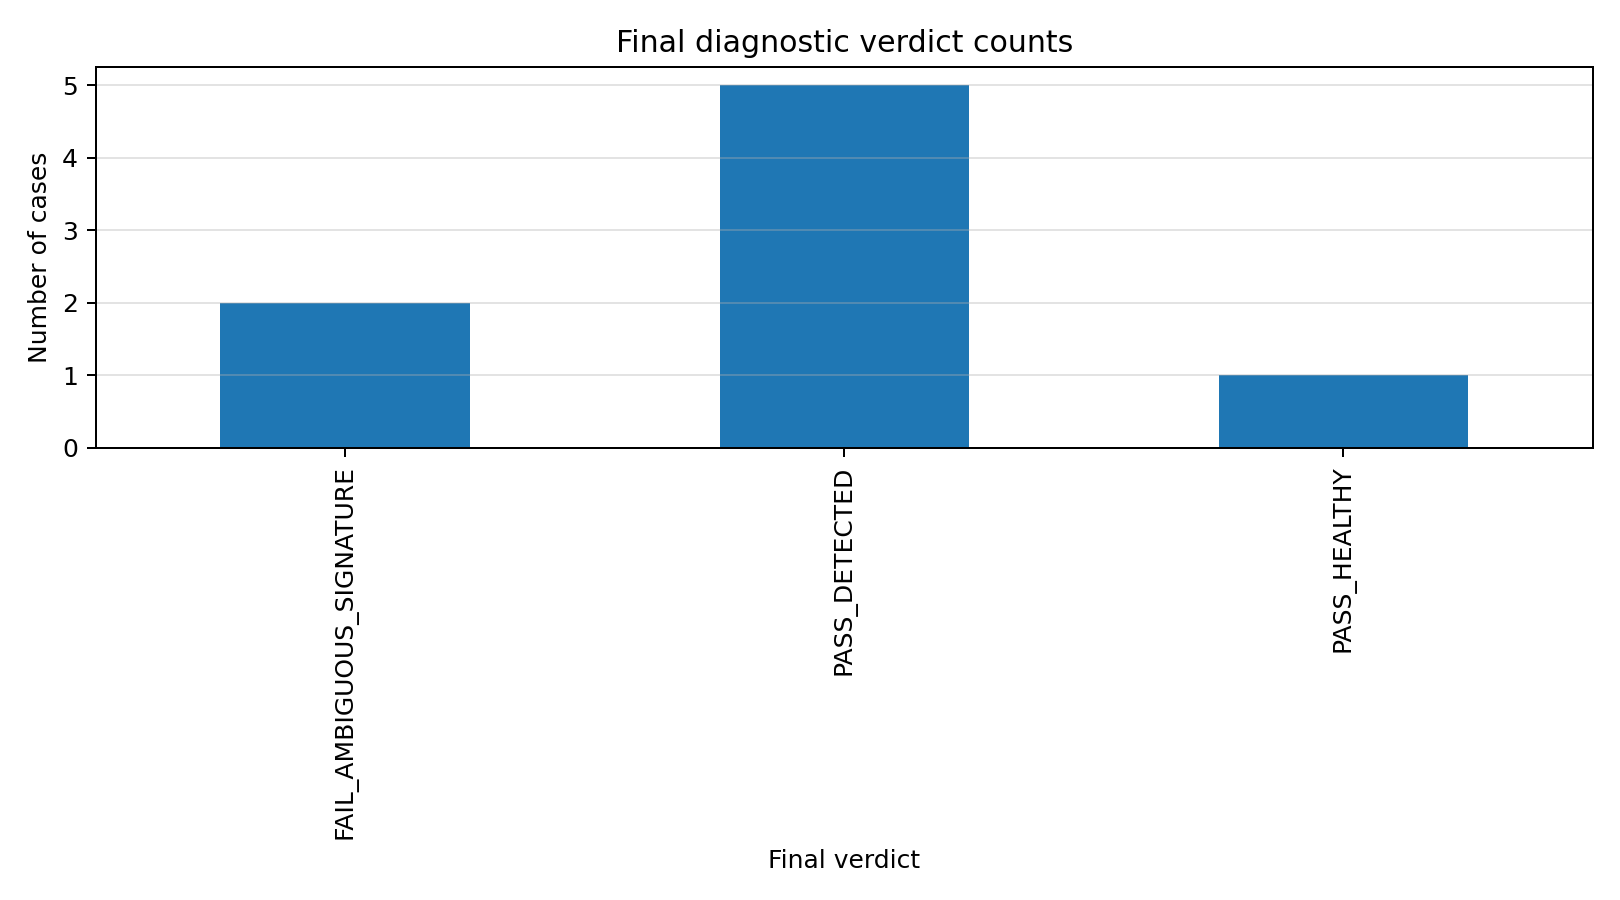
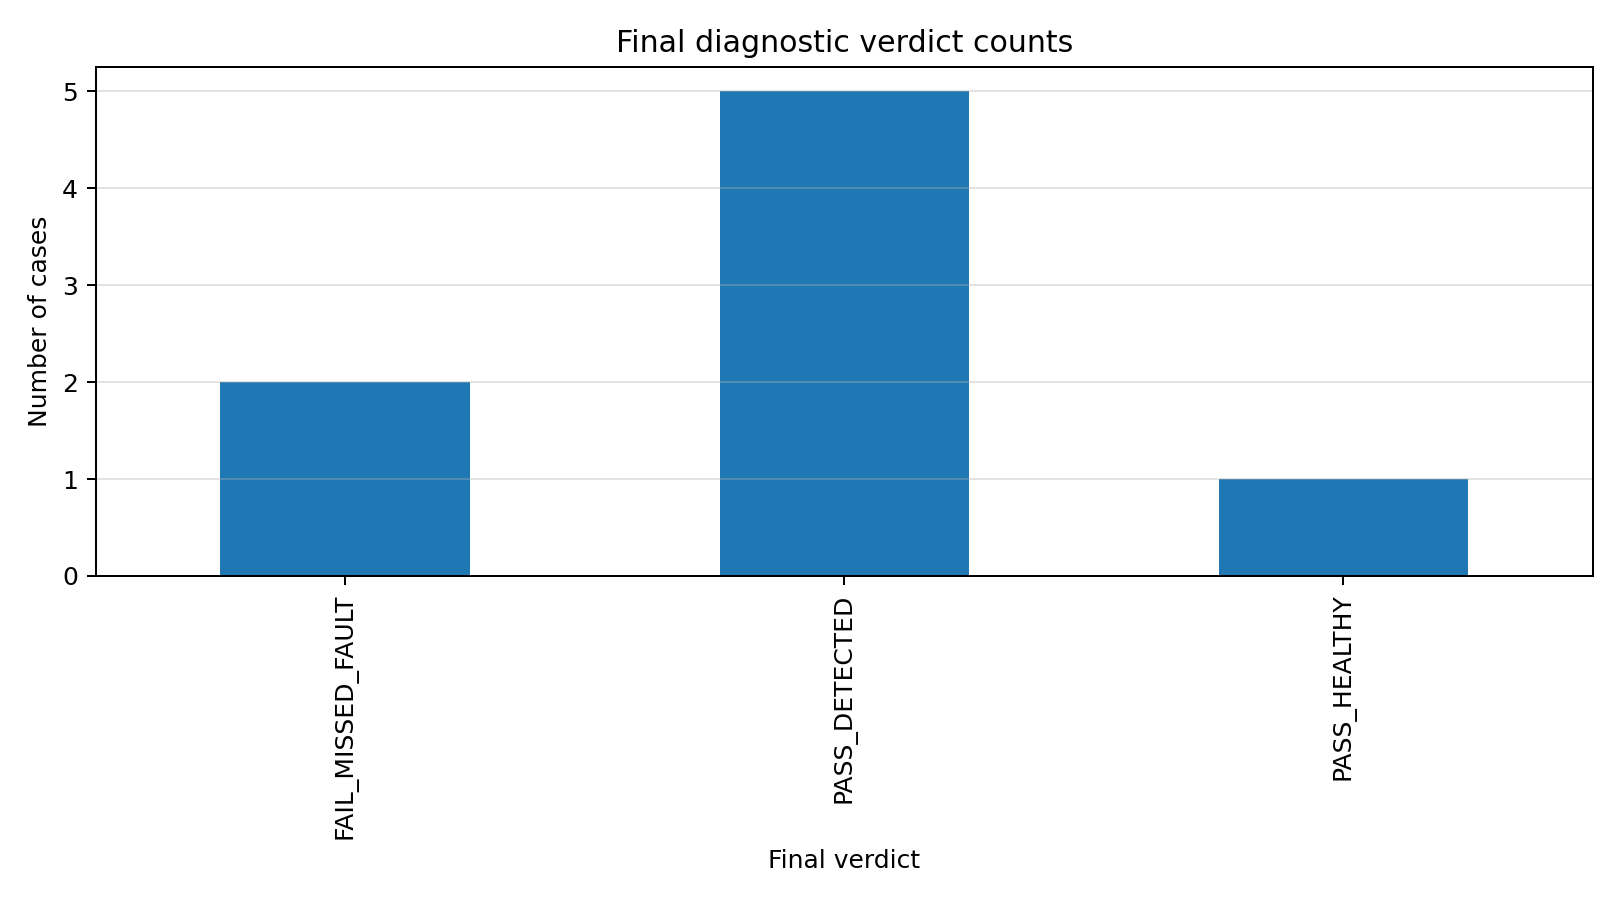
fix: align final diagnostic verdict semantics

diff --git a/src/bdr_demo/diagnostics.py b/src/bdr_demo/diagnostics.py
@@ -45,6 +45,44 @@ CONTACT_R_FAIL_RATIO = 1.30
 MODULE_IMBALANCE_WARNING_MV = 30.0
 MODULE_IMBALANCE_FAIL_MV = 50.0
 
+EXPECTED_FLAG_RULES: dict[str, set[str]] = {
+    "none": set(),
+    "capacity_fade": {
+        "capacity_verdict",
+        "coulomb_drift_verdict",
+        "ocv_reset_verdict",
+    },
+    "contact_resistance_growth": {
+        "contact_R_verdict",
+        "ocv_reset_verdict",
+    },
+    "initial_soc_inventory_offset": {
+        "coulomb_drift_verdict",
+        "ocv_reset_verdict",
+    },
+    "voltage_sensor_bias": {
+        "voltage_residual_verdict",
+        "ocv_reset_verdict",
+    },
+    "cell_imbalance": {
+        "module_imbalance_verdict",
+        "coulomb_drift_verdict",
+    },
+    "capacity_inconsistency": {
+        "module_imbalance_verdict",
+        "capacity_verdict",
+        "coulomb_drift_verdict",
+    },
+    "combined": {
+        "coulomb_drift_verdict",
+        "ocv_reset_verdict",
+        "voltage_residual_verdict",
+        "capacity_verdict",
+        "contact_R_verdict",
+        "module_imbalance_verdict",
+    },
+}
+
 
 def rule_verdict_from_abs_error(
     value: float,
@@ -255,34 +293,64 @@ def compute_module_delta_voltage_max_mV(
 def combine_final_verdict(
     *,
     fault_label: str,
-    rule_verdicts: Sequence[RuleVerdict],
-    metrics_nonzero_but_below_threshold: bool,
+    rule_verdict_by_name: dict[str, RuleVerdict],
 ) -> tuple[bool, bool, str]:
-    """Combine rule verdicts into final diagnostic robustness verdict.
+    """Combine rule verdicts into a final diagnostic robustness verdict.
 
-    Returns:
-        ``(false_positive, false_negative, final_verdict)``.
+    Semantics:
+        - healthy + no rule flags -> PASS_HEALTHY
+        - healthy + any rule flags -> FAIL_FALSE_ALARM
+        - faulty + no rule flags -> FAIL_MISSED_FAULT
+        - faulty + expected FAIL -> PASS_DETECTED
+        - faulty + expected WARNING only -> WARNING_BOUNDARY
+        - faulty + flags exist but none are expected -> FAIL_AMBIGUOUS_SIGNATURE
+
+    ``FAIL_AMBIGUOUS_SIGNATURE`` is therefore reserved for cases where the
+    diagnostic reacts, but the active rule evidence is not consistent with the
+    injected fault label. A below-threshold hidden deviation is a missed fault,
+    not an ambiguous detected fault.
     """
 
-    has_warning = any(verdict == "WARNING" for verdict in rule_verdicts)
-    has_fail = any(verdict == "FAIL" for verdict in rule_verdicts)
-    has_any_flag = has_warning or has_fail
+    if fault_label not in EXPECTED_FLAG_RULES:
+        raise ValueError(f"Unknown fault_label for final verdict mapping: {fault_label}")
+
+    flagged_rules = {
+        name
+        for name, verdict in rule_verdict_by_name.items()
+        if verdict in {"WARNING", "FAIL"}
+    }
+
+    failing_rules = {
+        name
+        for name, verdict in rule_verdict_by_name.items()
+        if verdict == "FAIL"
+    }
+
+    warning_rules = {
+        name
+        for name, verdict in rule_verdict_by_name.items()
+        if verdict == "WARNING"
+    }
 
     if fault_label == "none":
-        if has_any_flag:
+        if flagged_rules:
             return True, False, "FAIL_FALSE_ALARM"
         return False, False, "PASS_HEALTHY"
 
-    if has_fail:
+    if not flagged_rules:
+        return False, True, "FAIL_MISSED_FAULT"
+
+    expected_rules = EXPECTED_FLAG_RULES[fault_label]
+    expected_failing_rules = failing_rules & expected_rules
+    expected_warning_rules = warning_rules & expected_rules
+
+    if expected_failing_rules:
         return False, False, "PASS_DETECTED"
 
-    if has_warning:
+    if expected_warning_rules:
         return False, False, "WARNING_BOUNDARY"
 
-    if metrics_nonzero_but_below_threshold:
-        return False, True, "FAIL_AMBIGUOUS_SIGNATURE"
-
-    return False, True, "FAIL_MISSED_FAULT"
+    return False, False, "FAIL_AMBIGUOUS_SIGNATURE"
 
 
 def compute_diagnostic_report(
@@ -348,30 +416,18 @@ def compute_diagnostic_report(
         fail_threshold=MODULE_IMBALANCE_FAIL_MV,
     )
 
-    rule_verdicts: tuple[RuleVerdict, ...] = (
-        coulomb_drift_verdict,
-        ocv_reset_verdict,
-        voltage_residual_verdict,
-        capacity_verdict,
-        contact_R_verdict,
-        module_imbalance_verdict,
-    )
-
-    # Used to distinguish a complete miss from an intentionally ambiguous
-    # below-threshold signature, e.g. +10 mV voltage sensor bias under a
-    # 30 mV warning threshold.
-    metrics_nonzero_but_below_threshold = bool(
-        voltage_residual_max_mV > 0.0
-        or abs(case.initial_soc_mismatch) > 0.0
-        or abs(capacity_consistency_error) > 0.0
-        or abs(contact_R_inferred_ratio - 1.0) > 0.0
-        or module_delta_voltage_max_mV > 0.0
-    )
+    rule_verdict_by_name: dict[str, RuleVerdict] = {
+        "coulomb_drift_verdict": coulomb_drift_verdict,
+        "ocv_reset_verdict": ocv_reset_verdict,
+        "voltage_residual_verdict": voltage_residual_verdict,
+        "capacity_verdict": capacity_verdict,
+        "contact_R_verdict": contact_R_verdict,
+        "module_imbalance_verdict": module_imbalance_verdict,
+    }
 
     false_positive, false_negative, final_verdict = combine_final_verdict(
         fault_label=case.fault_label,
-        rule_verdicts=rule_verdicts,
-        metrics_nonzero_but_below_threshold=metrics_nonzero_but_below_threshold,
+        rule_verdict_by_name=rule_verdict_by_name,
     )
 
     return DiagnosticReportRow(
@@ -405,6 +461,7 @@ __all__ = [
     "CONTACT_R_FAIL_RATIO",
     "MODULE_IMBALANCE_WARNING_MV",
     "MODULE_IMBALANCE_FAIL_MV",
+    "EXPECTED_FLAG_RULES",
     "rule_verdict_from_abs_error",
     "rule_verdict_from_upper_bound",
     "inverse_ocv_to_soc",

diff --git a/tests/test_diagnostics.py b/tests/test_diagnostics.py
@@ -10,6 +10,7 @@ from bdr_demo.diagnostics import (
     compute_diagnostic_report,
     compute_module_delta_voltage_max_mV,
     compute_voltage_residual_max_mV,
+    combine_final_verdict,
     rule_verdict_from_abs_error,
     rule_verdict_from_upper_bound,
 )
@@ -97,14 +98,14 @@ def test_initial_soc_inventory_offset_is_detected_by_coulomb_drift():
     assert report.final_verdict == "PASS_DETECTED"
 
 
-def test_voltage_bias_10mV_is_below_warning_and_marked_ambiguous():
+def test_voltage_bias_10mV_is_below_warning_and_marked_missed():
     case, sensed = _sensed_single_cell("voltage_bias_p10mV")
     report = compute_diagnostic_report(case, sensed)
 
     assert np.isclose(compute_voltage_residual_max_mV(sensed), 10.0)
     assert report.voltage_residual_verdict == "PASS"
     assert report.false_negative is True
-    assert report.final_verdict == "FAIL_AMBIGUOUS_SIGNATURE"
+    assert report.final_verdict == "FAIL_MISSED_FAULT"
 
 
 def test_module_delta_voltage_defaults_to_zero_without_module_df():
@@ -147,3 +148,39 @@ def test_combined_fault_is_detected():
     assert report.capacity_verdict == "FAIL"
     assert report.contact_R_verdict == "FAIL"
     assert report.final_verdict == "PASS_DETECTED"
+
+
+def test_fault_with_no_rule_flags_is_missed_fault():
+    false_positive, false_negative, final_verdict = combine_final_verdict(
+        fault_label="voltage_sensor_bias",
+        rule_verdict_by_name={
+            "coulomb_drift_verdict": "PASS",
+            "ocv_reset_verdict": "PASS",
+            "voltage_residual_verdict": "PASS",
+            "capacity_verdict": "PASS",
+            "contact_R_verdict": "PASS",
+            "module_imbalance_verdict": "PASS",
+        },
+    )
+
+    assert false_positive is False
+    assert false_negative is True
+    assert final_verdict == "FAIL_MISSED_FAULT"
+
+
+def test_wrong_rule_flag_yields_ambiguous_signature():
+    false_positive, false_negative, final_verdict = combine_final_verdict(
+        fault_label="voltage_sensor_bias",
+        rule_verdict_by_name={
+            "coulomb_drift_verdict": "PASS",
+            "ocv_reset_verdict": "PASS",
+            "voltage_residual_verdict": "PASS",
+            "capacity_verdict": "FAIL",
+            "contact_R_verdict": "PASS",
+            "module_imbalance_verdict": "PASS",
+        },
+    )
+
+    assert false_positive is False
+    assert false_negative is False
+    assert final_verdict == "FAIL_AMBIGUOUS_SIGNATURE"

diff --git a/tests/test_pipeline.py b/tests/test_pipeline.py
@@ -43,7 +43,11 @@ def test_pipeline_expected_key_verdicts():
     assert by_case.loc["initial_soc_mismatch_p05", "final_verdict"] == "PASS_DETECTED"
     assert (
         by_case.loc["voltage_bias_p10mV", "final_verdict"]
-        == "FAIL_AMBIGUOUS_SIGNATURE"
+        == "FAIL_MISSED_FAULT"
+    )
+    assert (
+        by_case.loc["module_capacity_scatter", "final_verdict"]
+        == "FAIL_MISSED_FAULT"
     )
     assert by_case.loc["combined_fault", "final_verdict"] == "PASS_DETECTED"
 
